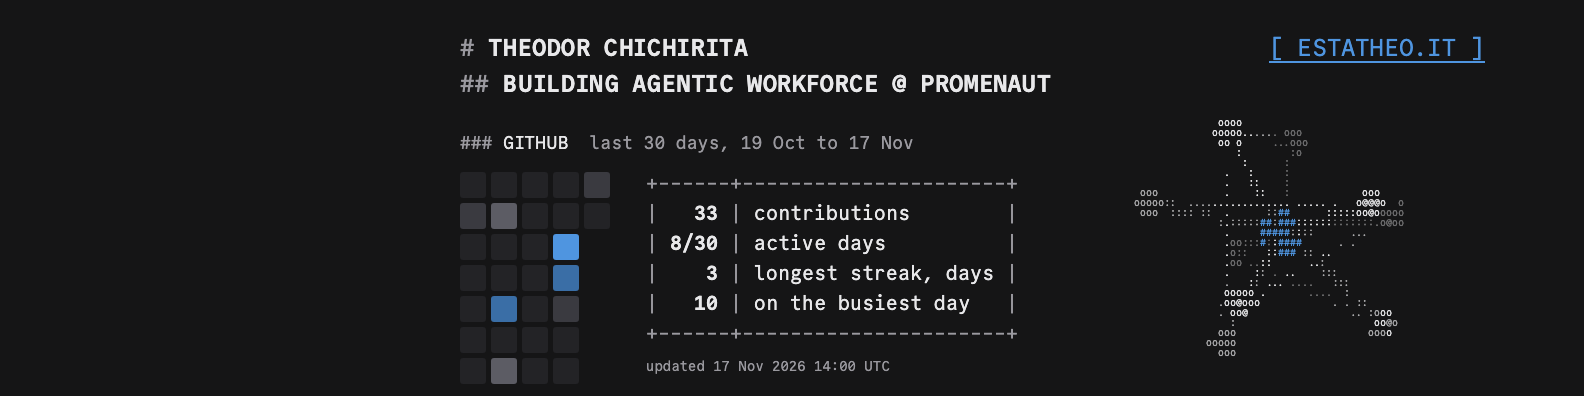
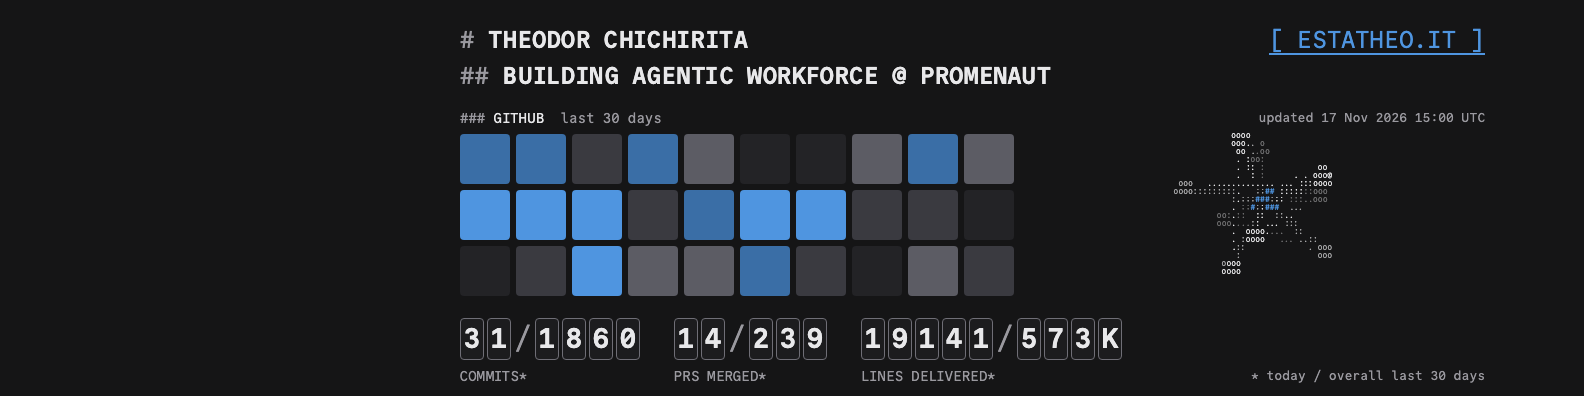
Publish the portfolio site

diff --git a/js/live.js b/js/live.js
@@ -1,12 +1,40 @@
-// /live/: the last 30 days of GitHub activity, from live/activity.json, which the hourly banner
-// job writes (live-banner.py in the LinkedIn profile folder). Counts only. Same squares as the
-// banner: Monday-first weeks down, weeks across, empty then greys then the link blue.
-const weeks = document.querySelector('[data-live-weeks]');
-const counts = document.querySelector('[data-live-counts]');
+// /live/: the last 30 days of GitHub activity as squares, and counters in the form
+// TODAY / LAST 30 DAYS, from live/activity.json, which the hourly banner job writes
+// (live-banner.py in the LinkedIn profile folder). Dates and counts only. "Today" is the UTC day.
+// The counters roll up from 0 on load; under reduced motion they show the final number at once.
+const cal = document.querySelector('[data-live-cal]');
+const counters = document.querySelector('[data-live-counters]');
 const stamp = document.querySelector('[data-live-stamp]');
-const spanEl = document.querySelector('[data-live-span]');
 const MONTHS = ['Jan', 'Feb', 'Mar', 'Apr', 'May', 'Jun', 'Jul', 'Aug', 'Sep', 'Oct', 'Nov', 'Dec'];
-const day = (iso) => { const d = new Date(`${iso}T00:00:00Z`); return `${d.getUTCDate()} ${MONTHS[d.getUTCMonth()]}`; };
+const STATS = [['commit', 'Commits'], ['merged', 'PRs merged'], ['lines', 'Lines delivered'],
+  ['pr', 'PRs opened'], ['review', 'PRs reviewed']];
+// 412,345 -> '412K' (rounded down), as on the banner. Below 100,000 the full number.
+const compact = (v) => (v >= 100000 ? `${Math.floor(v / 1000)}K` : String(v));
+const still = matchMedia('(prefers-reduced-motion: reduce)').matches;
+
+// GitHub-style levels: quartiles of the active days' counts.
+function levels(days) {
+  const nz = days.map((d) => d.count).filter(Boolean).sort((a, b) => a - b);
+  if (!nz.length) return days.map(() => 0);
+  const q = [0.25, 0.5, 0.75].map((f) => nz[Math.min(nz.length - 1, Math.floor(nz.length * f))]);
+  return days.map((d) => (d.count ? 1 + q.filter((t) => d.count > t).length : 0));
+}
+
+function odometer(el, value, digits) {
+  const cells = Array.from({ length: digits }, () => { const c = document.createElement('span'); el.append(c); return c; });
+  const paint = (v) => {
+    const c = compact(v), s = c.padStart(digits, '0'), lead = digits - c.length;
+    cells.forEach((c, i) => { c.textContent = s[i]; c.classList.toggle('z', i < lead); });
+  };
+  if (still || !value) { paint(value); return; }
+  const t0 = performance.now(), dur = 1400;
+  const step = (now) => {
+    const u = Math.min(1, (now - t0) / dur);
+    paint(Math.round(value * (1 - Math.pow(1 - u, 3))));
+    if (u < 1) requestAnimationFrame(step);
+  };
+  paint(0); requestAnimationFrame(step);
+}
 
 async function load() {
   let data;
@@ -15,29 +43,29 @@ async function load() {
     if (!r.ok) throw new Error(r.status);
     data = await r.json();
   } catch (e) {
-    weeks.setAttribute('aria-label', 'Activity could not be loaded.');
-    counts.innerHTML = '<tr><th scope="row">Activity</th><td>could not be loaded, the banner below is the latest copy</td></tr>';
+    cal.setAttribute('aria-label', 'Activity could not be loaded.');
+    counters.innerHTML = '<li class="meta">Activity could not be loaded. The banner below is the latest copy.</li>';
     return;
   }
-  const days = data.days;
-  const top = Math.max(1, ...days.map((d) => d.count));
-  const lead = (new Date(`${days[0].date}T00:00:00Z`).getUTCDay() + 6) % 7; // Monday = 0
-  weeks.innerHTML = '<i style="visibility:hidden"></i>'.repeat(lead) + days.map((d) => {
-    const l = d.count === 0 ? 0 : Math.max(1, Math.min(4, Math.ceil((d.count / top) * 4)));
-    return `<i class="l${l}" title="${day(d.date)}: ${d.count}"></i>`;
-  }).join('');
-  const span = `${day(days[0].date)} to ${day(days[days.length - 1].date)}`;
-  spanEl.textContent = `Last 30 days, ${span}.`;
-  weeks.setAttribute('aria-label', `${data.total} contributions over ${days.length} days, ${span}, on ${data.active} of them.`);
-  counts.innerHTML = [
-    ['Contributions', data.total], ['Active days', `${data.active} of ${days.length}`],
-    ['Longest streak', `${data.streak} days`], ['Busiest day', data.busiest],
-  ].map(([k, v]) => `<tr><th scope="row">${k}</th><td>${v}</td></tr>`).join('');
+  const days = data.days, lv = levels(days);
+  cal.innerHTML = days.map((d, i) => `<i class="l${lv[i]}"></i>`).join('');
+  const total = days.reduce((s, d) => s + d.count, 0), active = days.filter((d) => d.count).length;
+  cal.setAttribute('aria-label', `${total} contributions over the last ${days.length} days, on ${active} of them.`);
+  const st = data.stats;
+  // The counters the banner shows, from the JSON; a stat without a source (null) is left out.
+  const shown = (data.counters || STATS).map(([k]) => STATS.find(([s]) => s === k) || [k, k]).filter(([k]) => st[k]);
+  counters.innerHTML = '';
+  for (const [k, label] of shown) {
+    const li = document.createElement('li');
+    li.innerHTML = `<span class="odo" aria-hidden="true"><span class="t"></span><span class="sl">/</span><span class="m"></span></span>`
+      + `<span class="meta" aria-hidden="true">${label.toUpperCase()}*</span>`
+      + `<span class="vh">${label}: ${st[k].today.toLocaleString('en-GB')} today, ${st[k].month.toLocaleString('en-GB')} in the last ${data.month_days} days.</span>`;
+    counters.append(li);
+    // Each counter is as wide as its own number: at least 2 cells for today, 3 for the month.
+    odometer(li.querySelector('.t'), st[k].today, Math.max(2, compact(st[k].today).length));
+    odometer(li.querySelector('.m'), st[k].month, Math.max(3, compact(st[k].month).length));
+  }
   const t = new Date(data.updated.replace('Z', ':00Z'));
-  stamp.textContent = `Updated ${t.getUTCDate()} ${MONTHS[t.getUTCMonth()]} ${t.getUTCFullYear()}, ${String(t.getUTCHours()).padStart(2, '0')}:00 UTC.`;
-  // main.js draws the ASCII table only when its width changes, so drop its cached width first.
-  const pre = counts.closest('.ascii-wrap')?.querySelector('pre.ascii-pre');
-  if (pre) delete pre.dataset.cols;
-  window.dispatchEvent(new Event('resize'));
+  stamp.textContent = `* today (UTC) / overall last ${data.month_days} days. Updated ${t.getUTCDate()} ${MONTHS[t.getUTCMonth()]} ${t.getUTCFullYear()}, ${String(t.getUTCHours()).padStart(2, '0')}:00 UTC.`;
 }
 load();

diff --git a/live/index.html b/live/index.html
@@ -4,7 +4,7 @@
 <meta charset="utf-8">
 <meta name="viewport" content="width=device-width, initial-scale=1, viewport-fit=cover">
 <title>Live: Theodor Chichirita</title>
-<meta name="description" content="GitHub activity for the last 30 days, redrawn every hour. Counts only.">
+<meta name="description" content="The last 30 days of GitHub activity, today against the whole month, redrawn every hour. Counts only.">
 <meta name="author" content="Theodor Chichirita">
 <meta name="color-scheme" content="light dark">
 <link rel="canonical" href="https://estatheo.it/live/">
@@ -16,10 +16,18 @@
 :root { --q0: #e6e6e9; --q1: #c9c8ce; --q2: #8a8990; --q3: #5b8fcb; --q4: #1f6fc4; }
 @media (prefers-color-scheme: dark) { :root:not([data-theme="light"]) { --q0: #232326; --q1: #3a3a40; --q2: #5c5c64; --q3: #3a6ea6; --q4: #4f95e0; } }
 :root[data-theme="dark"] { --q0: #232326; --q1: #3a3a40; --q2: #5c5c64; --q3: #3a6ea6; --q4: #4f95e0; }
-.weeks { display: grid; grid-auto-flow: column; grid-template-rows: repeat(7, 1.4rem); grid-auto-columns: 1.4rem; gap: 0.3rem; }
-.weeks i { border-radius: 3px; background: var(--q0); }
-.weeks i.l1 { background: var(--q1); } .weeks i.l2 { background: var(--q2); }
-.weeks i.l3 { background: var(--q3); } .weeks i.l4 { background: var(--q4); }
+.cal { display: grid; grid-template-columns: repeat(10, minmax(0, 1fr)); gap: 6px; max-width: 36rem; }
+.cal i { aspect-ratio: 1; border-radius: 4px; background: var(--q0); }
+.cal i.l1 { background: var(--q1); } .cal i.l2 { background: var(--q2); }
+.cal i.l3 { background: var(--q3); } .cal i.l4 { background: var(--q4); }
+.counters { list-style: none; padding: 0; display: flex; flex-wrap: wrap; gap: 1.5rem 2.5rem; }
+.counters li { display: flex; flex-direction: column; gap: 0.5rem; }
+.odo, .odo .t, .odo .m { display: flex; gap: 3px; align-items: center; }
+.odo { gap: 0.4em; }
+.odo .t span, .odo .m span { display: inline-block; width: 1.3em; line-height: 1.9em; text-align: center; font-size: 1.4rem; font-weight: 700;
+  border: 1px solid var(--line); border-radius: 4px; font-variant-numeric: tabular-nums; }
+.odo span.z { color: var(--grey); font-weight: 400; }
+.odo .sl { color: var(--grey); font-size: 1.4rem; }
 .row.solo .text > img.banner { max-width: none; }
 .banner { width: 100%; height: auto; display: block; border: 1px dashed var(--line); }
 </style>
@@ -58,13 +66,11 @@
   <section class="row solo" id="live">
     <div class="text">
       <h1>LIVE</h1>
-      <p>My GitHub activity over the last 30 days: commits, pull requests, reviews and new repositories, counted per day. Only the counts, no repositories or messages. It's redrawn every hour, and the same picture is my LinkedIn banner.</p>
-      <h2 id="activity">ACTIVITY</h2>
-      <p class="meta" data-live-span>Last 30 days.</p>
-      <div class="weeks" role="img" data-live-weeks aria-label="Daily activity squares, loading."></div>
-      <div class="ascii-wrap"><table class="ascii"><caption class="vh">Counts for the last 30 days</caption><tbody data-live-counts>
-        <tr><th scope="row">Contributions</th><td>loading</td></tr>
-      </tbody></table></div>
+      <p>My work on GitHub over the last 30 days: commits, merged pull requests and lines delivered to the main branch, mine and my agents'. Lines leave out lockfiles, build output and other generated files. Only dates and counts, no repositories or messages. It's redrawn every hour, and the same picture is my LinkedIn banner.</p>
+      <h2 id="activity">LAST 30 DAYS</h2>
+      <div class="cal" role="img" data-live-cal aria-label="Activity squares, loading."></div>
+      <h2 id="month">TODAY / LAST 30 DAYS</h2>
+      <ul class="counters" data-live-counters><li class="meta">Loading.</li></ul>
       <p class="meta" data-live-stamp></p>
       <h2 id="banner">BANNER</h2>
       <img class="banner" src="/live/banner.png" width="1584" height="396" alt="My LinkedIn banner: name, headline, the same 30 days of activity squares and counts, and the agent graph from the home page drawn in text.">
